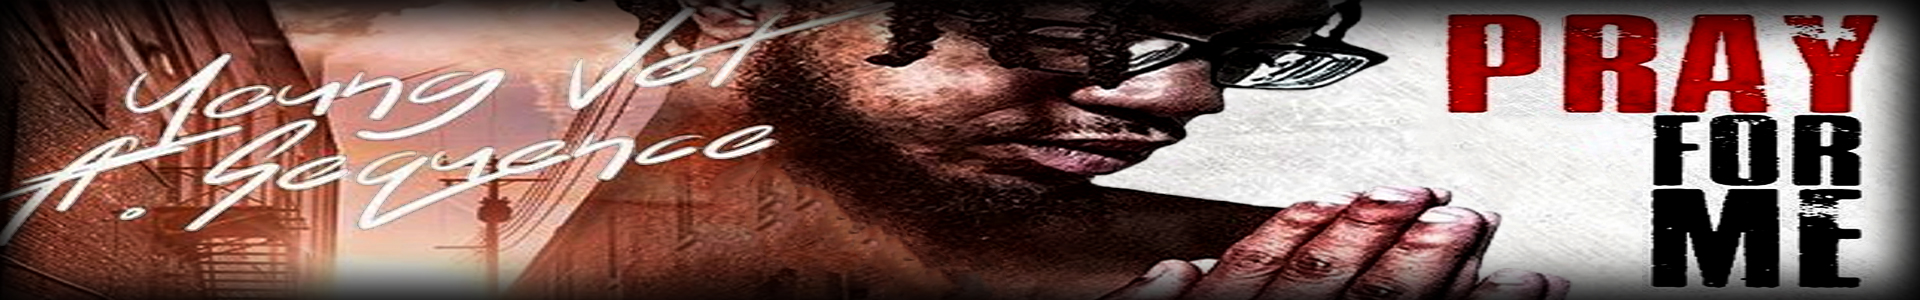
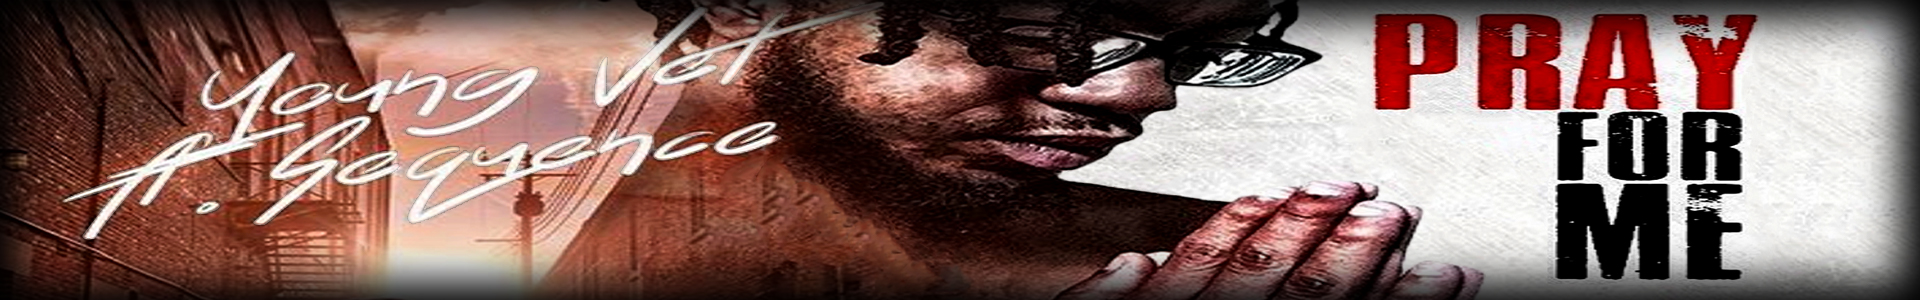
Resized PrayForMe Promo, added big promo media queries, created about page, created footer.

diff --git a/style.css b/style.css
@@ -59,6 +59,12 @@ nav {
 nav img {
   height: 80px;
   width: auto;
+  opacity: 0.8;
+  transition: 0.3s ease-in;
+}
+
+nav img:hover {
+  opacity: 1;
 }
 
 nav ul {
@@ -156,7 +162,7 @@ nav ul li a:hover::after {
   height: 100vh;
   width: 100%;
   background-image: url(img/Vet10.jpg);
-  background-size: 85%;
+  background-size: cover;
   background-repeat: no-repeat;
   background-position: center top;
   background-attachment: fixed;
@@ -188,9 +194,9 @@ nav ul li a:hover::after {
 
 .spotifyPlayer {
   position: absolute;
-  right: 5rem;
+  left: 50%;
   top: 50%;
-  transform: translateY(-50%);
+  transform: translate(-50%, -50%);
   opacity: 0.7;
   transition: opacity 0.3s linear;
 }
@@ -220,11 +226,12 @@ nav ul li a:hover::after {
 
 .prayForMePromo {
   max-height: fit-content;
-  height: 25vh;
+  height: 225px;
   width: 100%;
   text-align: center;
   position: relative;
-  margin: 150px 0;
+  z-index: 3;
+  margin: 15px 0;
 }
 
 .prayForMePromo::after {
@@ -240,7 +247,6 @@ nav ul li a:hover::after {
 .prayForMePromo img {
   height: 100%;
   width: 100%;
-  border-radius: 10px;
 }
 
 .prayForMePromoHover {
@@ -253,11 +259,16 @@ nav ul li a:hover::after {
   display: flex;
   justify-content: center;
   align-items: center;
-  transform: translateX(-100%);
-  transition: transform 0.4s ease;
+  /* transform: translateX(-100%);
+  transition: transform 0.4s ease; */
+  transform: scaleY(0);
+  transform-origin: bottom;
+  transition: transform 0.5s ease;
 }
 .prayForMePromo:hover .prayForMePromoHover {
-  transform: translateX(0);
+  /* transform: translateX(0); */
+  transform: scaleY(1);
+  transform-origin: top;
 }
 
 .prayForMePromoHover span {
@@ -427,11 +438,11 @@ nav ul li a:hover::after {
 
 /*Change variable to more suitable width at hover(big screens)*/
 .hover-left .left .pacPromoImg1 {
-  width: var(--hover-width) !important;
+  /* width: var(--hover-width) !important; */
 }
 .hover-left .left .pacPromoImg2 {
-  width: var(--hover-width1) !important;
-  top: 19vh;
+  /* width: var(--hover-width1) !important; */
+  /* top: 19vh; */
 }
 .hover-right .right {
   width: var(--hover-width);
@@ -482,6 +493,11 @@ nav ul li a:hover::after {
   opacity: 0.8;
   overflow: hidden;
   cursor: pointer;
+  transition: 0.3s linear;
+}
+
+.singleWrap:hover {
+  transform: scale(0.96);
 }
 
 .singleWrap::after {
@@ -500,7 +516,7 @@ nav ul li a:hover::after {
   height: fit-content;
   max-width: 250px;
   width: fit-content;
-  border-radius: 8px;
+  border-radius: 10px;
 }
 
 .colOverlay {
@@ -554,6 +570,61 @@ nav ul li a:hover::after {
   box-shadow: 0 0 30px -5px #fefefe;
 }
 
+footer {
+  display: flex;
+  justify-content: space-between;
+  align-items: center;
+  position: absolute;
+  bottom: 2rem;
+  z-index: 99;
+  width: 100%;
+  background: #000;
+  padding: 10px;
+  box-shadow: 0 0 20px -5px #fff;
+}
+
+footer::after {
+  content: "";
+  position: absolute;
+  left: 0;
+  top: 4.5%;
+  border-top: 2px solid #fff;
+  border-bottom: 2px solid #fff;
+  height: 85%;
+  width: 100%;
+}
+
+.socialFoot {
+  width: 155px;
+  display: flex;
+  justify-content: space-between;
+  align-items: center;
+}
+
+.socialFoot a {
+  color: #fff;
+  filter: drop-shadow(0 0 8px rgba(255, 255, 255, 0.5));
+  transition: all 0.3s ease-in;
+}
+
+.socialFoot a:hover {
+  color: var(--rubyRed);
+  filter: drop-shadow(0 0 4px rgba(255, 255, 255, 0.6));
+}
+
+footer a {
+  z-index: 99;
+}
+
+footer img {
+  height: 50px;
+  border-radius: 10px;
+}
+
+footer p {
+  color: #fff;
+}
+
 @media only screen and (max-width: 768px) {
   .pacVidPromo {
     max-height: 250px;
@@ -571,5 +642,62 @@ nav ul li a:hover::after {
   }
   .burger {
     display: block;
+  }
+}
+
+@media only screen and (min-width: 992px) {
+  .promoSplit.left .pacPromoImg1 {
+    width: var(--hover-width);
+  }
+  .promoSplit.left .pacPromoImg2 {
+    width: var(--hover-width1);
+    top: 24vh;
+  }
+  .hover-left .left .pacPromoImg1 {
+    width: calc(var(--hover-width) - 10%);
+  }
+  .hover-left .left .pacPromoImg2 {
+    width: calc(var(--hover-width1) - 10%);
+    top: 28vh;
+  }
+  .hover-right .left .pacPromoImg2 {
+    top: 17vh;
+  }
+}
+
+@media only screen and (min-width: 1200px) {
+  #homeLanding {
+    background-size: 80%;
+  }
+  .promoSplit.left .pacPromoImg1 {
+    width: var(--hover-width);
+  }
+  .promoSplit.left .pacPromoImg2 {
+    width: var(--hover-width1);
+    top: 25vh;
+  }
+  .hover-left .left .pacPromoImg1 {
+    width: calc(var(--hover-width) - 10%);
+  }
+  .hover-left .left .pacPromoImg2 {
+    width: calc(var(--hover-width1) - 10%);
+    top: 28.5vh;
+  }
+  .hover-right .left .pacPromoImg2 {
+    top: 18vh;
+  }
+}
+
+@media only screen and (min-width: 1400px) {
+  .promoSplit.left .pacPromoImg2 {
+    width: var(--hover-width1);
+    top: 27vh;
+  }
+  .hover-left .left .pacPromoImg2 {
+    width: calc(var(--hover-width1) - 10%);
+    top: 31vh;
+  }
+  .hover-right .left .pacPromoImg2 {
+    top: 18vh;
   }
 }

diff --git a/index.html b/index.html
@@ -21,7 +21,9 @@
         <li><a href="#">Media</a></li>
         <li><a href="#">Contact</a></li>
       </ul>
-      <img src="img/logoTest2.png" alt="Young Vet" class="navLogo" />
+      <a href="index.html"
+        ><img src="img/logoTest2.png" alt="Young Vet" class="navLogo"
+      /></a>
       <div class="burger" id="burger">
         <i class="fas fa-bars fa-2x"></i>
       </div>
@@ -62,7 +64,7 @@
     <div class="prayForMePromo">
       <img src="img/PrayForMePromo.jpg" alt="" />
       <div class="prayForMePromoHover">
-        <span>Dropping Soon</span>
+        <span>Coming Soon</span>
       </div>
     </div>
 
@@ -172,6 +174,31 @@
         </div>
       </div>
     </section>
+
+    <footer>
+      <p>Built By Brandon.</p>
+
+      <a href="index.html"
+        ><img src="img/logo2(white).png" alt="Young Vet"
+      /></a>
+
+      <div class="socialFoot">
+        <a href="https://www.facebook.com/919YoungVet" target="”_blank”"
+          ><i class="fab fa-facebook fa-lg"></i
+        ></a>
+        <a href="https://www.instagram.com/919youngvet" target="”_blank”"
+          ><i class="fab fa-instagram fa-lg"></i
+        ></a>
+        <a href="#" target="”_blank”"><i class="fab fa-youtube fa-lg"></i></a>
+        <a
+          href="https://open.spotify.com/artist/6Nch91LBtilkpCYllGELOn?si=FtXeVsRlT2a-nXQzdVTq4w"
+          target="”_blank”"
+          ><i class="fab fa-spotify fa-lg"></i
+        ></a>
+        <a href="#" target="”_blank”"><i class="fab fa-itunes fa-lg"></i></a>
+        <a href="#" target="”_blank”"><i class="fab fa-amazon fa-lg"></i></a>
+      </div>
+    </footer>
 
     <script
       src="https://code.jquery.com/jquery-3.4.1.slim.min.js"

diff --git a/about.html b/about.html
@@ -1,0 +1,38 @@
+<!DOCTYPE html>
+<html lang="en">
+  <head>
+    <meta charset="UTF-8" />
+    <meta name="viewport" content="width=device-width, initial-scale=1.0" />
+    <meta http-equiv="X-UA-Compatible" content="ie=edge" />
+
+    <script
+      src="https://kit.fontawesome.com/4ff7ddc04a.js"
+      crossorigin="anonymous"
+    ></script>
+
+    <link rel="stylesheet" href="style.css" />
+    <title>Young Vet</title>
+  </head>
+  <body onresize="sizeFunction()">
+    <nav>
+      <ul>
+        <li><a href="#">Home</a></li>
+        <li><a href="#">About</a></li>
+        <li><a href="#">Media</a></li>
+        <li><a href="#">Contact</a></li>
+      </ul>
+      <img src="img/logoTest2.png" alt="Young Vet" class="navLogo" />
+      <div class="burger" id="burger">
+        <i class="fas fa-bars fa-2x"></i>
+      </div>
+    </nav>
+
+    <script
+      src="https://code.jquery.com/jquery-3.4.1.slim.min.js"
+      integrity="sha384-J6qa4849blE2+poT4WnyKhv5vZF5SrPo0iEjwBvKU7imGFAV0wwj1yYfoRSJoZ+n"
+      crossorigin="anonymous"
+    ></script>
+    <script src="image-slider-lightbox/dist/jquery-simple-lightbox.js"></script>
+    <script src="main.js"></script>
+  </body>
+</html>
